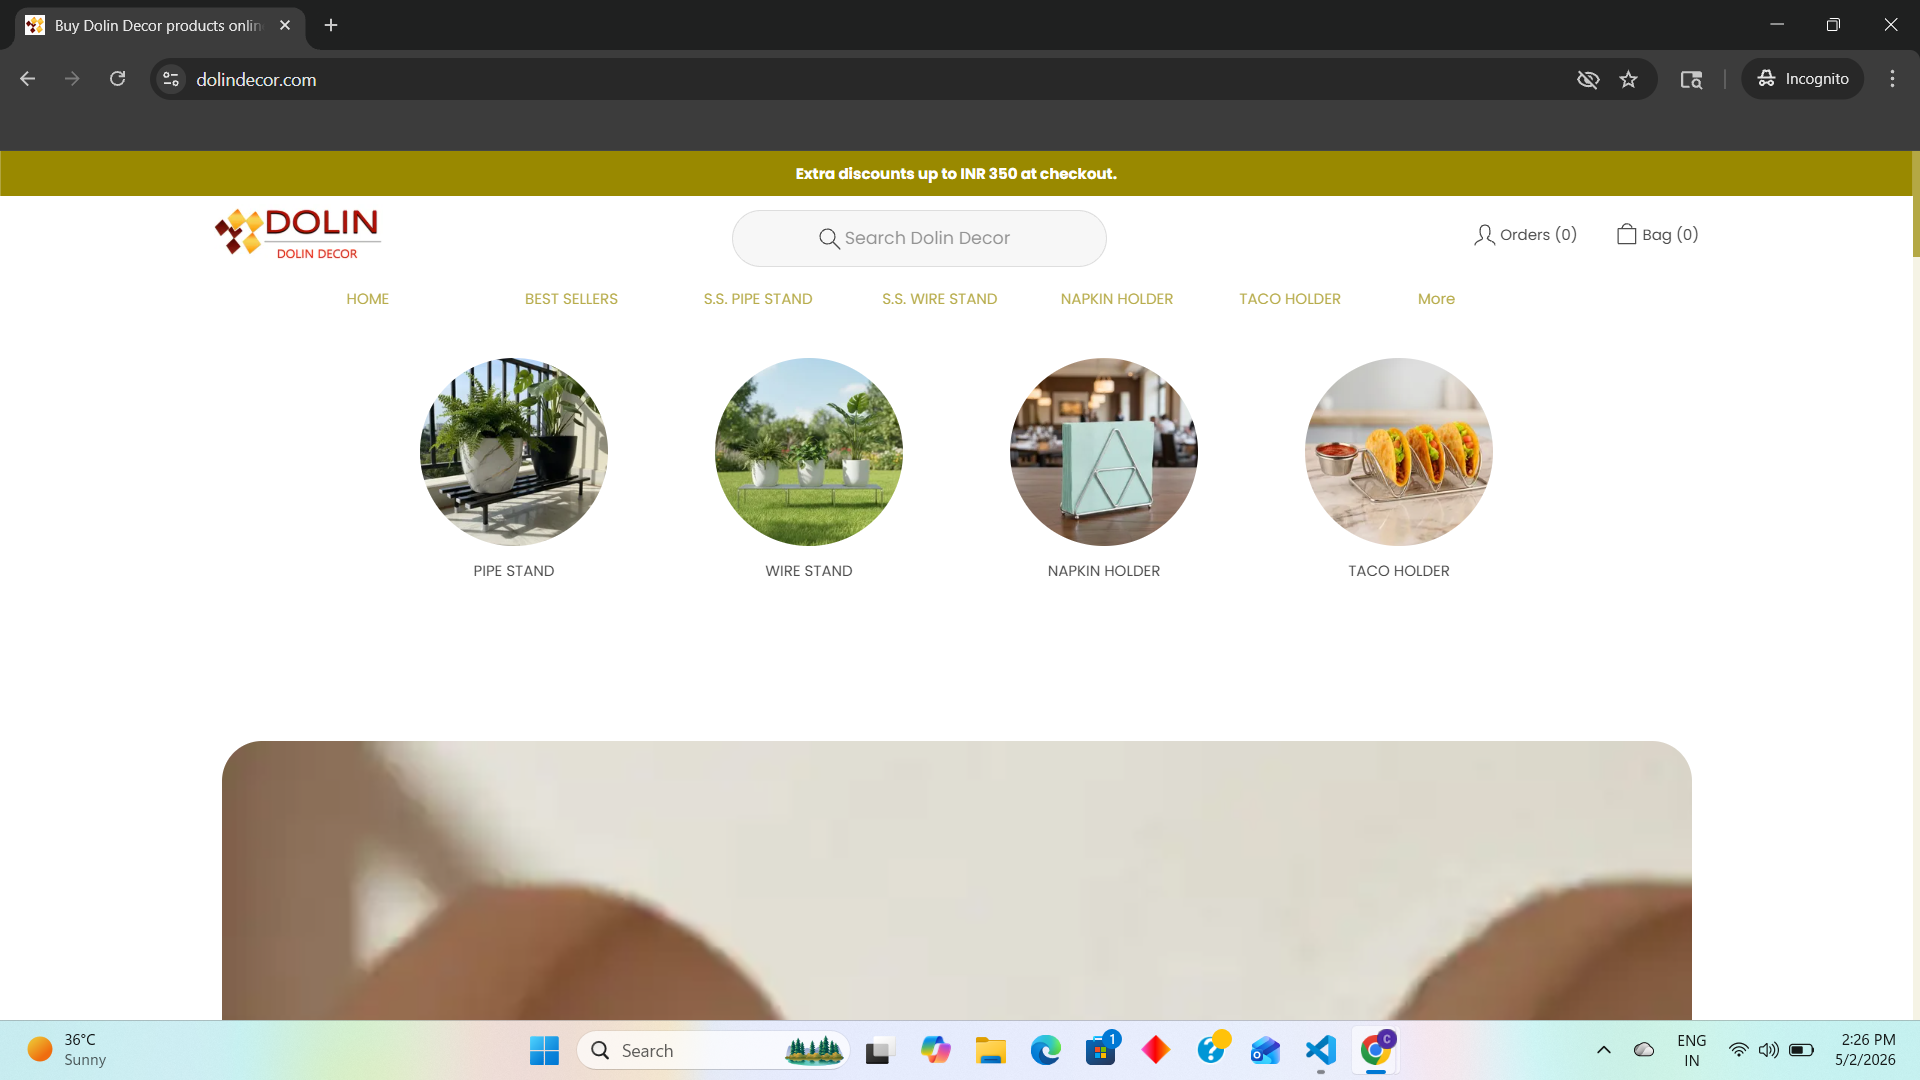
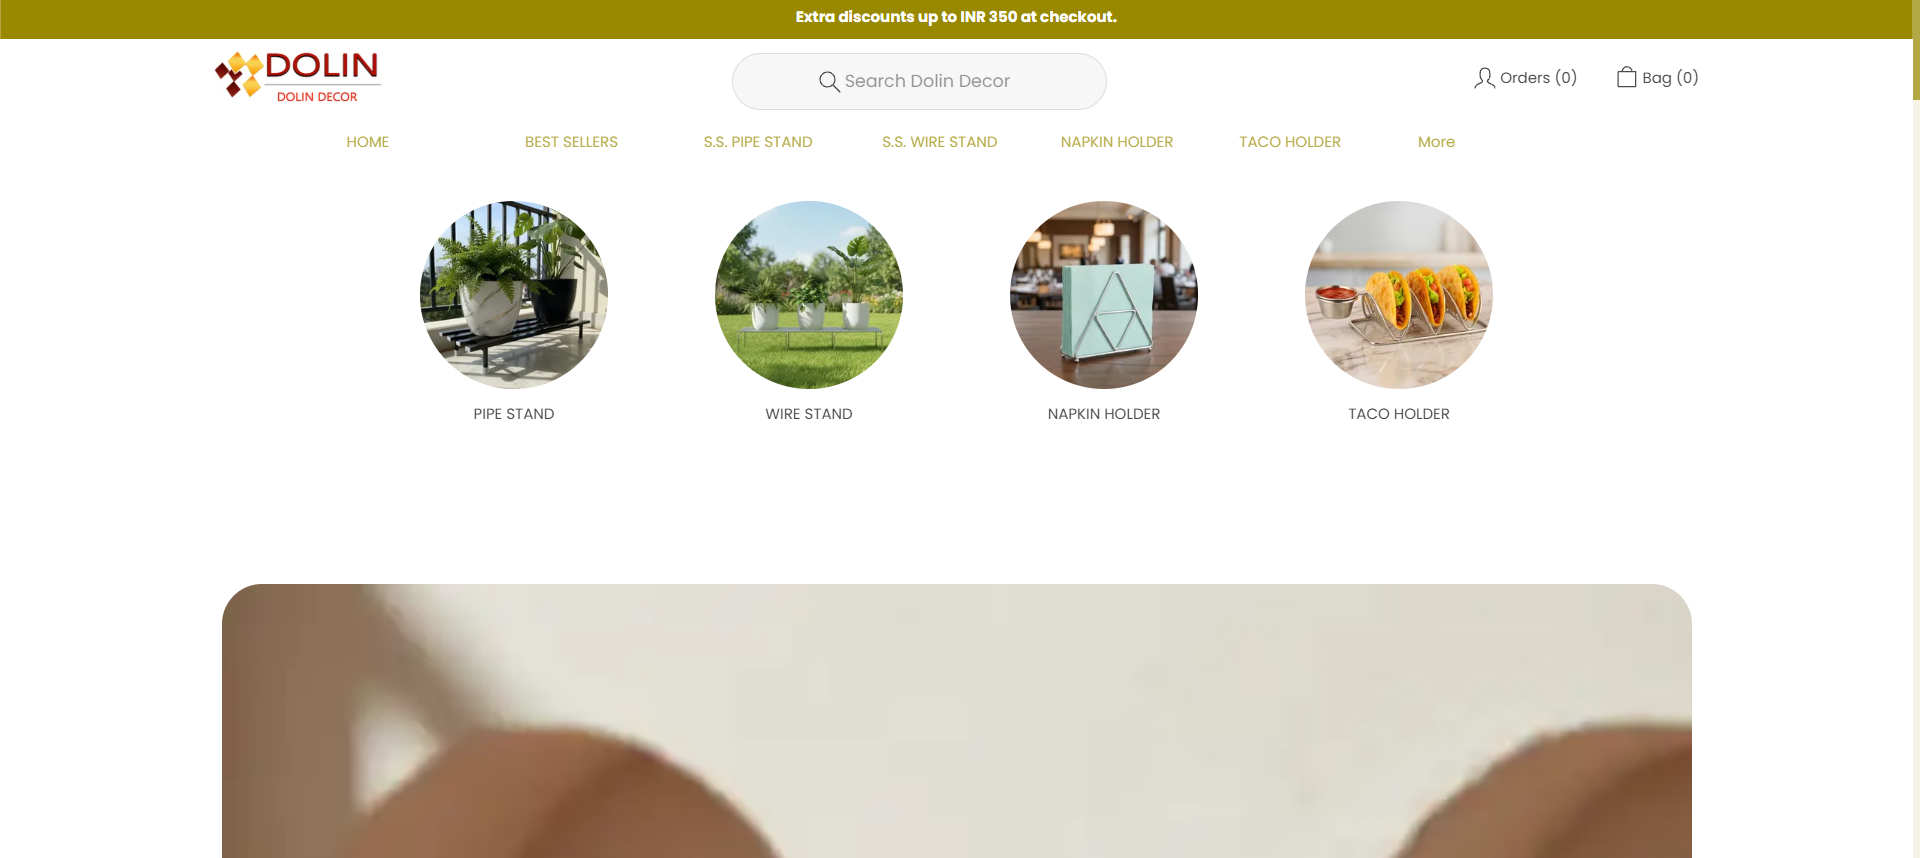
footer change

diff --git a/components/footer.jsx b/components/footer.jsx
@@ -1,8 +1,10 @@
 "use client";
 
 import Link from "next/link";
+import Image from "next/image";
 import { useTheme } from "next-themes";
 import { useEffect, useState } from "react";
+import { FaTwitter, FaLinkedin, FaGithub, FaInstagram } from "react-icons/fa";
 
 export default function Footer() {
   const { theme } = useTheme();
@@ -14,100 +16,135 @@ export default function Footer() {
   const isDark = theme === "dark";
 
   return (
-    <footer
-      className={`relative overflow-hidden pt-20 pb-10 ${
-        isDark ? "bg-black text-white" : "bg-white text-black"
-      }`}
-    >
-      {/* 🔥 ORANGE STREAK BACKGROUND */}
-      <div className="absolute inset-0 -z-10 pointer-events-none">
-        {/* subtle lines using gradients */}
+    <footer className="relative overflow-hidden pt-20 pb-10">
+
+      {/* 🔥 BACKGROUND */}
+      <div className="absolute inset-0 -z-10">
         <div
           className={`absolute inset-0 ${
             isDark
-              ? "opacity-40"
-              : "opacity-20"
+              ? "bg-gradient-to-br from-[#020617] via-[#020617] to-[#020617]"
+              : "bg-gradient-to-br from-white via-gray-50 to-white"
           }`}
-          style={{
-            background:
-              "radial-gradient(circle at 20% 30%, rgba(255,120,0,0.25), transparent 40%), radial-gradient(circle at 80% 70%, rgba(255,120,0,0.2), transparent 40%)",
-          }}
         />
+
+        {/* subtle glow */}
+        <div className="absolute top-0 left-0 w-[400px] h-[400px] bg-indigo-500/10 blur-[120px]" />
+        <div className="absolute bottom-0 right-0 w-[400px] h-[400px] bg-sky-500/10 blur-[120px]" />
       </div>
 
       {/* MAIN GRID */}
       <div className="max-w-7xl mx-auto px-6 grid md:grid-cols-4 gap-12">
 
-        {/* LEFT TEXT */}
+        {/* 🔥 BRAND */}
         <div className="space-y-6">
-          <p className={`${isDark ? "text-gray-300" : "text-gray-700"} leading-relaxed`}>
-            Building digital experiences that drive real results. Your trusted
-            partner for web development, design, and digital marketing solutions.
+
+          {/* LOGO */}
+          <Link href="/" className="inline-block">
+            <Image
+              src={
+                isDark
+                  ? "/assets/CyberNestX-logo-white.png"
+                  : "/assets/CyberNestX-logo-black.png"
+              }
+              alt="CyberNestX Logo"
+              width={140}
+              height={45}
+              priority
+            />
+          </Link>
+
+          <p className="text-muted text-sm leading-relaxed">
+            Dream. Build. Launch. We engineer scalable digital experiences
+            that command trust and drive relentless growth for serious businesses.
           </p>
 
-          <button
-            className={`px-6 py-3 rounded-full border transition flex items-center gap-2 ${
-              isDark
-                ? "border-white/30 hover:border-white"
-                : "border-gray-400 hover:border-black"
-            }`}
-          >
-            Let’s Work Together →
-          </button>
-        </div>
-
-        {/* NAVIGATION */}
-        <div>
-          <h3 className="font-semibold mb-5">Navigation</h3>
-          <div className="flex flex-col gap-4">
-            <Link href="/" className="hover:opacity-70 hover:text-blue-500 transition">Home</Link>
-            <Link href="/services" className="hover:opacity-70 hover:text-blue-500 transition">Services</Link>
-            <Link href="/about" className="hover:opacity-70 hover:text-blue-500 transition">About Us</Link>
-            <Link href="/contact" className="hover:opacity-70 hover:text-blue-500 transition">Contact</Link>
+          {/* SOCIAL */}
+          <div className="flex gap-4 pt-2">
+            {[FaTwitter, FaLinkedin, FaGithub, FaInstagram].map((Icon, i) => (
+              <div
+                key={i}
+                className={`w-10 h-10 rounded-full flex items-center justify-center transition cursor-pointer border
+                ${
+                  isDark
+                    ? "border-white/10 hover:bg-white/10 text-white"
+                    : "border-gray-300 hover:bg-gray-100 text-black"
+                }`}
+              >
+                <Icon size={16} />
+              </div>
+            ))}
           </div>
         </div>
 
-        {/* FOLLOW US */}
+        {/* COMPANY */}
         <div>
-          <h3 className="font-semibold mb-5">Follow us</h3>
-          <div className="flex flex-col gap-4">
-            <span className="hover:opacity-70 hover:text-blue-500 transition cursor-pointer">LinkedIn</span>
-            <span className="hover:opacity-70 hover:text-blue-500 transition cursor-pointer">Instagram</span>
-            <span className="hover:opacity-70 hover:text-blue-500 transition cursor-pointer">Facebook</span>
-            <span className="hover:opacity-70 hover:text-blue-500 transition cursor-pointer">Pinterest</span>
+          <h3 className="font-semibold mb-5 text-strong">Company</h3>
+          <div className="flex flex-col gap-3 text-sm text-muted">
+            <Link href="/about" className="hover:text-primary transition">About Us</Link>
+            <Link href="/portfolio" className="hover:text-primary transition">Portfolio</Link>
+            <Link href="#" className="hover:text-primary transition">Blog</Link>
+            <Link href="#" className="hover:text-primary transition">Pricing</Link>
+            <Link href="#" className="hover:text-primary transition">Testimonials</Link>
+            <Link href="/contact" className="hover:text-primary transition">Contact</Link>
           </div>
         </div>
 
         {/* SERVICES */}
         <div>
-          <h3 className="font-semibold mb-5">Services</h3>
-          <div className="flex flex-col gap-4">
-            <span className="hover:opacity-70 hover:text-blue-500 transition cursor-pointer">Website Development</span>
-            <span className="hover:opacity-70 hover:text-blue-500 transition cursor-pointer">Website Design</span>
-            <span className="hover:opacity-70 hover:text-blue-500 transition cursor-pointer">Digital Marketing</span>
-            <span className="hover:opacity-70 hover:text-blue-500 transition cursor-pointer">Graphic Design</span>
-            <span className="hover:opacity-70 hover:text-blue-500 transition cursor-pointer">E-commerce</span>
-            <span className="hover:opacity-70 hover:text-blue-500 transition cursor-pointer">SEO</span>
-            <span className="hover:opacity-70 hover:text-blue-500 transition cursor-pointer">Domain</span>
-            <span className="hover:opacity-70 hover:text-blue-500 transition cursor-pointer">Hosting</span>
+          <h3 className="font-semibold mb-5 text-strong">Services</h3>
+          <div className="flex flex-col gap-3 text-sm text-muted">
+            <span className="hover:text-primary transition cursor-pointer">Website Development</span>
+            <span className="hover:text-primary transition cursor-pointer">SEO Optimization</span>
+            <span className="hover:text-primary transition cursor-pointer">Digital Marketing</span>
+            <span className="hover:text-primary transition cursor-pointer">UI/UX Design</span>
+            <span className="hover:text-primary transition cursor-pointer">E-commerce Management</span>
           </div>
         </div>
-      </div>  
 
-      {/* BOTTOM BAR */}
-      <div className="max-w-7xl mx-auto px-6 mt-16 flex flex-col md:flex-row justify-between items-center gap-6 text-sm">
+        {/* CONTACT */}
+        <div>
+          <h3 className="font-semibold mb-5 text-strong">Contact</h3>
 
-        <div className={`${isDark ? "text-gray-400" : "text-gray-600"}`}>
-          Terms & Conditions | Privacy Policy
-          <br />
-          Copyright © CyberNestX PVT. LTD. 2026
+          <div className="space-y-4 text-sm text-muted">
+            <div>
+              <p className="text-xs uppercase tracking-wider mb-1">Email</p>
+              <p>hello@cybernestx.com</p>
+            </div>
+
+            <div>
+              <p className="text-xs uppercase tracking-wider mb-1">Phone</p>
+              <p>+91 98765 43210</p>
+            </div>
+
+            <div>
+              <p className="text-xs uppercase tracking-wider mb-1">Hours</p>
+              <p>Mon–Fri from 9am to 6pm</p>
+            </div>
+
+            <div>
+              <p className="text-xs uppercase tracking-wider mb-1">Address</p>
+              <p>
+                CyberNestX Tower, Tech Park <br />
+                Bengaluru, Karnataka, India 560001
+              </p>
+            </div>
+          </div>
         </div>
+      </div>
+
+      {/* BOTTOM */}
+      <div
+        className={`max-w-7xl mx-auto px-6 mt-16 pt-6 border-t flex flex-col md:flex-row justify-between items-center gap-4 text-sm
+        ${isDark ? "border-white/10 text-gray-400" : "border-gray-200 text-gray-600"}`}
+      >
+        <p>© 2026 CyberNestX. All rights reserved.</p>
 
         <button
           onClick={() => window.scrollTo({ top: 0, behavior: "smooth" })}
-          className="hover:opacity-70 transition"
+          className="hover:text-primary transition"
         >
-          Back to top
+          Back to top ↑
         </button>
       </div>
     </footer>
